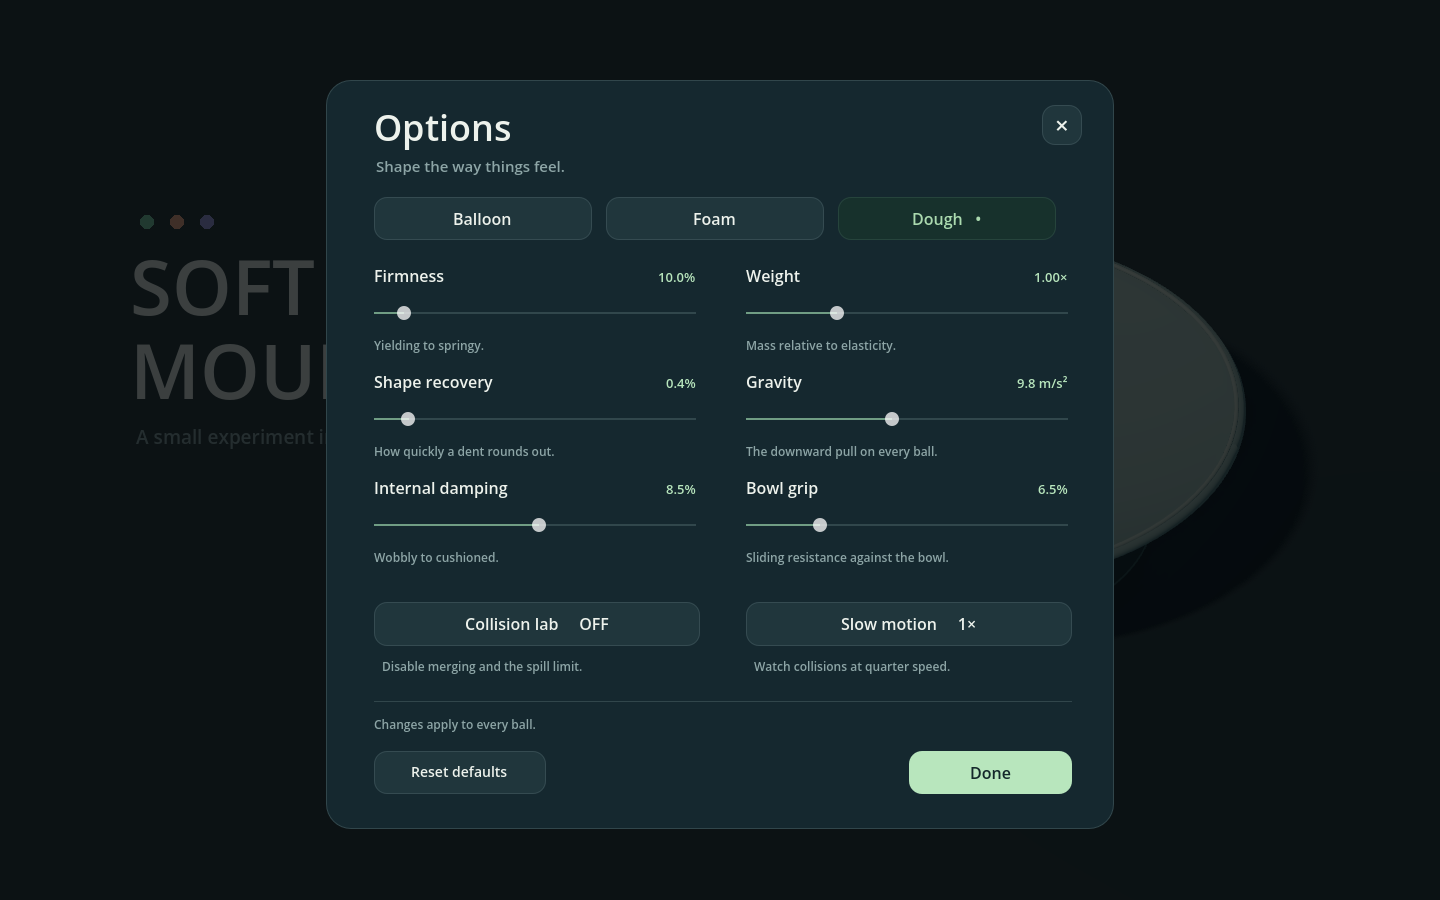
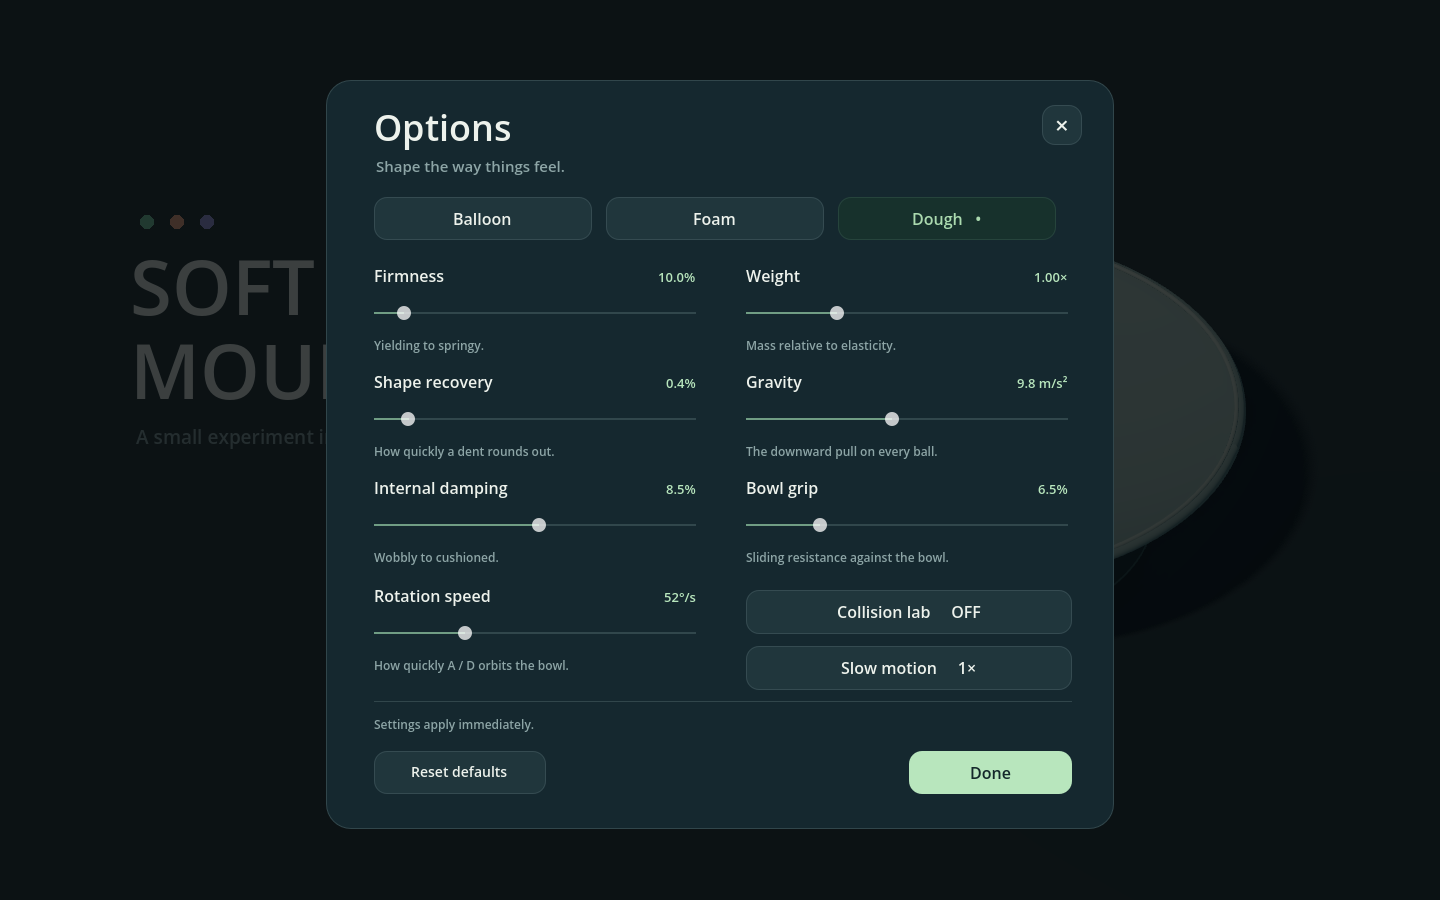
Improve trajectory camera view and add rotation speed tuning

Changed region(s): [[0.25, 0.6533, 0.4375, 0.7467], [0.5312, 0.6533, 0.6875, 0.7467], [0.25, 0.7778, 0.375, 0.8089]]

diff --git a/README.md b/README.md
@@ -12,7 +12,7 @@ Open `project.godot` in **Godot 4.6+** and press **F5**. The regular Godot build
 
 A local standalone Windows build is available at `build/SoftMountain.exe` after exporting the **Windows Desktop** preset. Builds are excluded from source control. The prototype was developed and tested with Godot 4.6.1; the local executable is exported with the installed Godot 4.7.2 templates.
 
-The main menu offers **Play** and **Options**. Play starts a bowl with three different tiers. Rotate around the bowl with A/D, raise or lower the throw angle with W/S, then click or press Space to toss immediately. Mouse position and hold duration do not affect the throw. The dotted arc previews the ballistic center path to the bowl plus the queued ball's radius; it does not predict collisions with the pile. Same-tier contact creates the next larger tier and awards points, which float up from the merge and fade away. The eight tiers approximately double in volume at each merge. Tier 8 stays in play and cannot merge further. A ball that escapes the bowl ends the round.
+The main menu offers **Play** and **Options**. Play starts a bowl with three different tiers. Rotate around the bowl with A/D, raise or lower the throw angle with W/S, then click or press Space to toss immediately. Mouse position and hold duration do not affect the throw. The camera views the throw from a slight side angle to keep its arc readable as you orbit. The dotted arc previews the ballistic center path to the bowl plus the queued ball's radius; it does not predict collisions with the pile. Same-tier contact creates the next larger tier and awards points, which float up from the merge and fade away. The eight tiers approximately double in volume at each merge. Tier 8 stays in play and cannot merge further. A ball that escapes the bowl ends the round.
 
 | Input | Action |
 | --- | --- |
@@ -24,7 +24,7 @@ The main menu offers **Play** and **Options**. Play starts a bowl with three dif
 | Pause → New bowl | Start a fresh bowl |
 | Pause → Options | Material tuning, collision lab, slow motion |
 
-**Dough is the default material.** The same Options modal is available from the main menu and Pause. It includes Balloon/Foam/Dough presets, firmness, shape recovery, internal damping, **weight**, **gravity**, and **bowl grip**, plus collision lab and quarter-speed simulation. Material settings apply to **all existing and new balls** immediately and persist between rounds for the current session. Reset defaults restores dough, normal speed, and the standard game rules. Collision lab disables merging and spill loss, and allows up to 44 balls.
+**Dough is the default material.** The same Options modal is available from the main menu and Pause. It includes Balloon/Foam/Dough presets, firmness, shape recovery, internal damping, **weight**, **gravity**, and **bowl grip**, plus **rotation speed** (15–150°/s), collision lab, and quarter-speed simulation. Material settings apply to **all existing and new balls** immediately and persist between rounds for the current session. Reset defaults restores dough, normal simulation speed, 52°/s rotation, and the standard game rules. Collision lab disables merging and spill loss, and allows up to 44 balls.
 
 Weight changes mass and the response of the elastic constraints, so greater weight compresses further under the same gravity. It does not make a freely falling ball accelerate faster. Gravity independently adjusts downward acceleration; bowl grip affects sliding resistance against the bowl. These are artistic development controls, not calibrated physical units for a particular real material.
 
